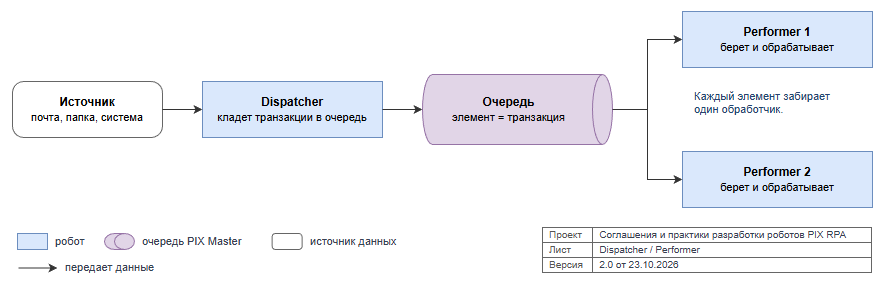
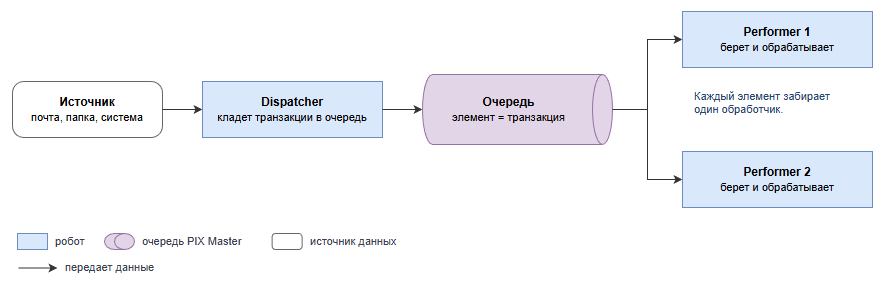
docs: схемы без штампа, версию хранит Git

diff --git a/CHANGELOG.md b/CHANGELOG.md
@@ -32,7 +32,7 @@
 - TEMPLATE-01 переименован: «Раскладывайте скрипты по папкам по роли» вместо «Разделяйте проект на слои». Ссылки и карта разделов README обновлены
 - template.md называется «Шаблоны роботов на State Machine» и описывает, как обычно устроены шаблоны команды, без ссылки на шаблон PIX Studio; из справки «Плюсы и минусы State Machine» в project.md «Универсальный шаблон» тоже убран. Вступление объясняет, что схемы, дерево папок и таблицы файла показывают одного робота `Orders.ProcessOrderRequest`. TEMPLATE-01 проводит границу между `States` и `Infrastructure`: адаптер отвечает «как сделать в системе», сценарий «что и когда делать»; любое действие в интерфейсе или API системы лежит в `Infrastructure`, даже разовое. Справка о сценарии разбирает `AddOrderItem` по шагам таблицей и схемой: адаптеры открывают заказ, получают остаток, добавляют строку и проводят заказ, сценарий проверяет результат и выбрасывает бизнес-исключения. Робот из примера не пишет статус в БД: ответ чат-боту уходит в очередь ответов, статус заявки хранит элемент входной очереди. Из TEMPLATE-03 убрана проверка БД, пример в «Почему» переведен на очередь ответов. TEMPLATE-02 начинается с оговорки: состояний бывает три, пять или десять, правило описывает типовой шаблон из четырех состояний (REFramework и аналоги), а для других шаблонов действует тот же принцип
 - TEMPLATE-01 описывает слои по назначению кода: переходы, бизнес-логика, адаптеры внешних систем, универсальные скрипты. `Helpers` это универсальные скрипты, не привязанные к состоянию или системе, чаще всего чистые функции. Правило начинается с идеи: не складывать скрипты одной кучей в корень проекта; переходы остаются в `main.pix`, по папкам раскладываются скрипты. Таблица слоев заменена списком «папка: роль», матрица вызовов одной фразой, дерево проекта сокращено до слоев, таблица «Куда положить скрипт» одной фразой. Сокращение ШАР убрано. В TEMPLATE-02 ответ и статус элемента пишет `CompleteTransaction`, его вызывает блок `Route`. Короткое состояние, до 1–5 строк кода, остается в блоке `main.pix` без папки; End Process обычно остается контейнером в `main.pix` без отдельного скрипта и try/catch, сложное завершение выносится в `States/EndProcess` (имя папки в NAMING-02). На схеме слоев четыре состояния и пометка о контейнере End Process
-- Схемы template.md: схема слоев нарисована заново (`States`, `Infrastructure`, `Helpers` с вызовами из `States` и `Infrastructure`), на схеме состояний «Запуск робота», `CompleteTransaction` и контур `main.pix` вокруг состояний, на схеме сценария все шаги желтые, метка элемента очереди вынесена из `Infrastructure`. В CONTRIBUTING шаг сценария всегда цвета бизнес-логики. Штамп всех листов: «Соглашения и практики разработки роботов PIX RPA»
+- Схемы template.md: схема слоев нарисована заново (`States`, `Infrastructure`, `Helpers` с вызовами из `States` и `Infrastructure`), на схеме состояний «Запуск робота», `CompleteTransaction` и контур `main.pix` вокруг состояний, на схеме сценария все шаги желтые, метка элемента очереди вынесена из `Infrastructure`. В CONTRIBUTING шаг сценария всегда цвета бизнес-логики. Штамп «Проект, Лист, Версия» убран со всех листов: версию и дату схемы хранит Git, раздел «Схемы» в CONTRIBUTING поправлен
 - Заголовок README: «Соглашения и практики разработки роботов PIX RPA» вместо «PIX RPA Development Conventions», в описании сказано, что в репозитории и правила, и справки
 - README: «Зачем это нужно» переписан как концепция соглашения. Одну задачу можно решить по-разному, соглашение фиксирует выбор команды; пять целей: быстрый вход в проект, понятные ошибки, устойчивость к сбоям, независимость от окружения, простые изменения; таблица ситуаций «без соглашения / по соглашению» со ссылками на правила: чужой проект, ошибка в логе, смена пароля, перенос на UAT, повтор без дубля. Добавлен раздел «Что сюда не входит»: работа в команде, Git, код-ревью, документы робота, разработка своих библиотек и активностей. «С чего начать» стал таблицей по ролям: новичок, опытный разработчик, ревьюер. Предупреждение о версии PIX Studio перенесено в «Как читать правила». Карта разделов переведена из таблиц в списки: у каждого раздела вместо ключевых слов главное правило
 - Глоссарий разбит на группы: робот и проект, шаблон и состояния, транзакции и ошибки, PIX Master, интеграции и данные, документы. Добавлены «NuGet-пакет» (через пакеты подключаются активности), «Библиотека», «Входной параметр робота» и «Повтор» с тремя уровнями. «Робот»: описан запуск без PIX Master. «Unattended-робот»: убран синоним «агент», он совпадал с отдельным термином. «Идемпотентность»: добавлена проверка в целевой системе, без очереди

diff --git a/PLAN.md b/PLAN.md
@@ -74,7 +74,7 @@
   > Сделано в проходе: PROJECT-03 переведен на NuGet-пакеты, скриншот `addDll.png` удален (новый скриншот в очереди `СКРИН`); добавлен абзац «Бизнес-логику не выносите в библиотеку» с примером распределенного монолита; библиотека сохраняет обратную совместимость внутри MAJOR. «Что дает» и «Чем неудобен» State Machine вынесены из PROJECT-01 в справку «Плюсы и минусы State Machine»; отказ от шаблона записывается в README робота, а не в ТП; из вступления убран анонс
 - [~] [template.md](docs/1-project/template.md) (3)
   > Сделано: сквозной пример `Orders.ProcessOrderRequest`, схемы вместо mermaid, переменные `main.pix`, уровни повторов
-  > Сделано в проходе: добавлен TEMPLATE-03 🔴 «Проверяйте доступ ко всем системам робота в Init» с таблицей проверок для систем из примера, строка Init в TEMPLATE-02 ссылается на него, главное правило добавлено в карту разделов README. «ШАР» заменен на «Универсальный шаблон», как в PIX Studio. TEMPLATE-01 описывает слои по назначению кода, без строгой матрицы вызовов: `Helpers` это универсальные скрипты, чаще всего чистые функции; дерево проекта сокращено до слоев, полный пример робота уходит в pix-templates. Transaction Script и новая справка «Стратегия» собраны в справку «Как разложить логику транзакции». Схема слоев нарисована заново, на схемах состояний и сценария `CompleteTransaction` пишет ответ и статус, все шаги сценария желтые, метка элемента очереди вынесена из `Infrastructure`. Штамп всех листов: «Соглашения и практики разработки роботов PIX RPA». Ждет апрува автора
+  > Сделано в проходе: добавлен TEMPLATE-03 🔴 «Проверяйте доступ ко всем системам робота в Init» с таблицей проверок для систем из примера, строка Init в TEMPLATE-02 ссылается на него, главное правило добавлено в карту разделов README. «ШАР» заменен на «Универсальный шаблон», как в PIX Studio. TEMPLATE-01 описывает слои по назначению кода, без строгой матрицы вызовов: `Helpers` это универсальные скрипты, чаще всего чистые функции; дерево проекта сокращено до слоев, полный пример робота уходит в pix-templates. Transaction Script и новая справка «Стратегия» собраны в справку «Как разложить логику транзакции». Схема слоев нарисована заново, на схемах состояний и сценария `CompleteTransaction` пишет ответ и статус, все шаги сценария желтые, метка элемента очереди вынесена из `Infrastructure`. Штамп убран со всех листов. Ждет апрува автора
 - [ ] [naming.md](docs/1-project/naming.md) (4): правила написаны без автора
 - [ ] [config.md](docs/1-project/config.md) (8): собран из четырех источников, проверить порядок правил и повторы
   > Сделано: раздел «Что такое ассет» по документации PIX, типы ассетов в CONFIG-01, CONFIG-08

diff --git a/CONTRIBUTING.md b/CONTRIBUTING.md
@@ -72,7 +72,7 @@
 - В блоке жирное название и одна-две строки деталей мельче: папка, скрипт, технология
 - Крупные зоны (проект, домен, этап) рисуются контуром со светлой заливкой и заголовком заглавными буквами. Папку или файл внутри контура (`main.pix`, `Infrastructure`) обводите серым пунктиром с подписью сверху
 - Пояснения пишите синим текстом внутри контура
-- Внизу каждого листа легенда слева и штамп «Проект, Лист, Версия» справа
+- Внизу каждого листа легенда. Штамп с версией и датой не нужен: их хранит история Git
 - Имена на схеме совпадают с текстом и примерами правила. Изменили имя в тексте, поменяйте и схему
 - Сплошная стрелка означает «вызывает» или «передает», пунктир означает «использует» или «проверяет», красный пунктир означает переход после ошибки
 - Если ветвей много, рисуйте основной путь, а остальные переходы вынесите в таблицу рядом. Так сделано с ошибками и повторами в [TEMPLATE-02](docs/1-project/template.md#template-02-выполняйте-в-каждом-состоянии-только-его-работу)
